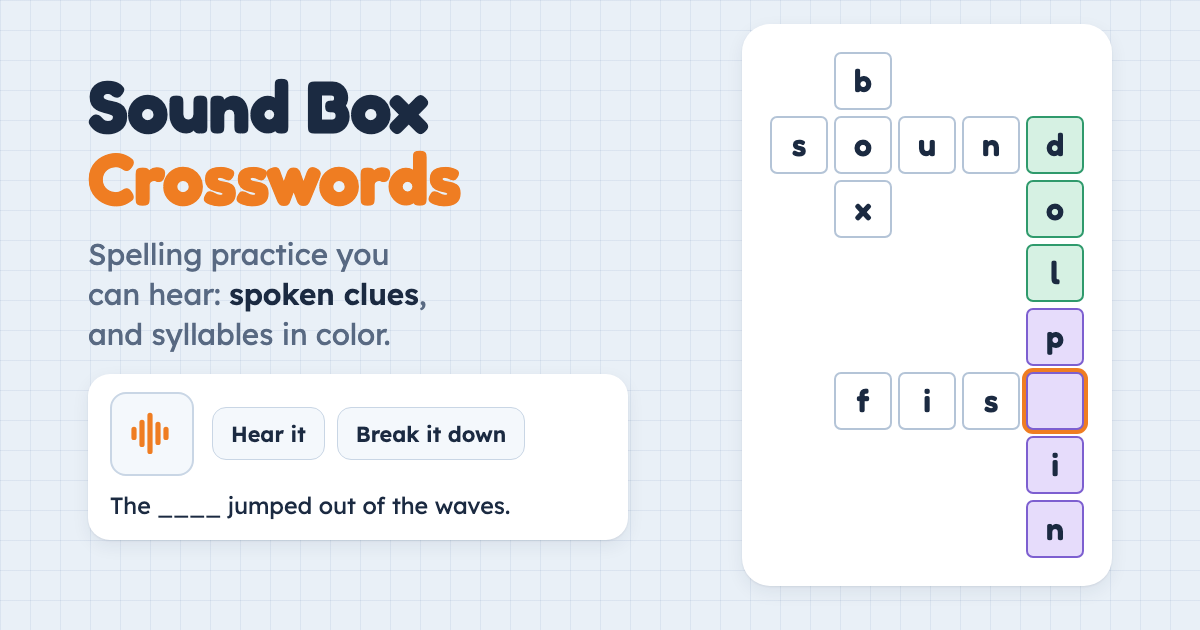
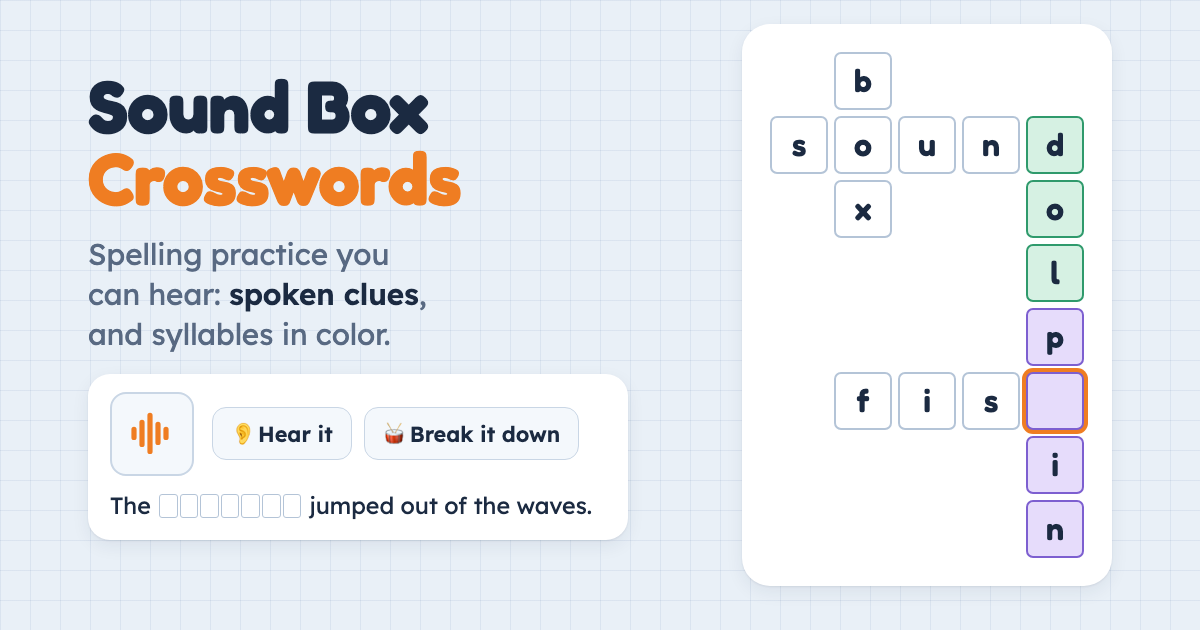
Emoji on the scaffold buttons: 👂 Hear it, 🥁 Break it down, 🗣 Sound it out
Pictures for players who don't read the labels yet (kindergarten). 🥁 because the
app calls syllables beats; not 👏, since "Clap it" was taken as an instruction.
The emoji are aria-hidden, so screen readers still say just the label. Buttons
are a little tighter so two still fit on one row from 390px up. The link-preview
card matches: emoji on its buttons and the sentence blank drawn as boxes.

Changed region(s): [[0.185, 0.6635, 0.4625, 0.7238], [0.1233, 0.7841, 0.4933, 0.8444]]

diff --git a/index.html b/index.html
@@ -51,9 +51,11 @@
     <div class="clueinfo">
       <div class="cluehead"><span id="clueLabel">1 Across</span><span id="clueSub"></span></div>
       <div class="tools">
-        <button class="tool" id="hearBtn" type="button">Hear it</button>
-        <button class="tool" id="clapBtn" type="button">Break it down</button>
-        <button class="tool" id="soundBtn" type="button" hidden>Sound it out</button>
+        <!-- The emoji are pictures for players who don't read the labels yet; screen readers
+             skip them. 🥁 for beats (syllables), not 👏: "Clap it" was taken as an instruction. -->
+        <button class="tool" id="hearBtn" type="button"><span class="ico" aria-hidden="true">👂</span>Hear it</button>
+        <button class="tool" id="clapBtn" type="button"><span class="ico" aria-hidden="true">🥁</span>Break it down</button>
+        <button class="tool" id="soundBtn" type="button" hidden><span class="ico" aria-hidden="true">🗣</span>Sound it out</button>
       </div>
     </div>
     <p class="sent" id="clueSent" hidden></p>

diff --git a/scripts/social-card.html b/scripts/social-card.html
@@ -35,8 +35,8 @@
          and the spoken sentence with the word left blank. -->
     <div class="clue" aria-hidden="true">
       <div class="pic"><svg class="wave" viewBox="0 0 24 24"><path d="M3 10v4M7 6.5v11M11 3v18M15 7.5v9M19 10v4" fill="none" stroke="currentColor" stroke-width="2.6" stroke-linecap="round"/></svg></div>
-      <div class="tools"><span class="tool">Hear it</span><span class="tool">Break it down</span></div>
-      <p class="sent">The ____ jumped out of the waves.</p>
+      <div class="tools"><span class="tool"><span class="ico">👂</span>Hear it</span><span class="tool"><span class="ico">🥁</span>Break it down</span></div>
+      <p class="sent">The <span class="blank"><span></span><span></span><span></span><span></span><span></span><span></span><span></span></span> jumped out of the waves.</p>
     </div>
   </div>
   <div class="grid-card">

diff --git a/styles.css b/styles.css
@@ -182,6 +182,8 @@ h1 span { color: var(--accent); }
 .tools { display: flex; gap: 8px; flex-wrap: wrap; }
 .tool { border: 1.5px solid var(--key-edge); background: var(--key); border-radius: 12px; padding: 7px 12px; font-weight: 600; font-size: 0.9rem; }
 .tool:active { transform: translateY(1px); }
+.tool .ico { margin-right: 3px; }
+.tools .tool { padding: 7px 8px; }
 /* Context sentence with the word as a blank. Room for two lines so it doesn't jump. */
 .sent { grid-column: 1 / -1; margin: 0; min-height: 2.8em; line-height: 1.4; font-size: 1rem; }
 /* A blank in the sentence: one small box per letter, like the grid's boxes. */
